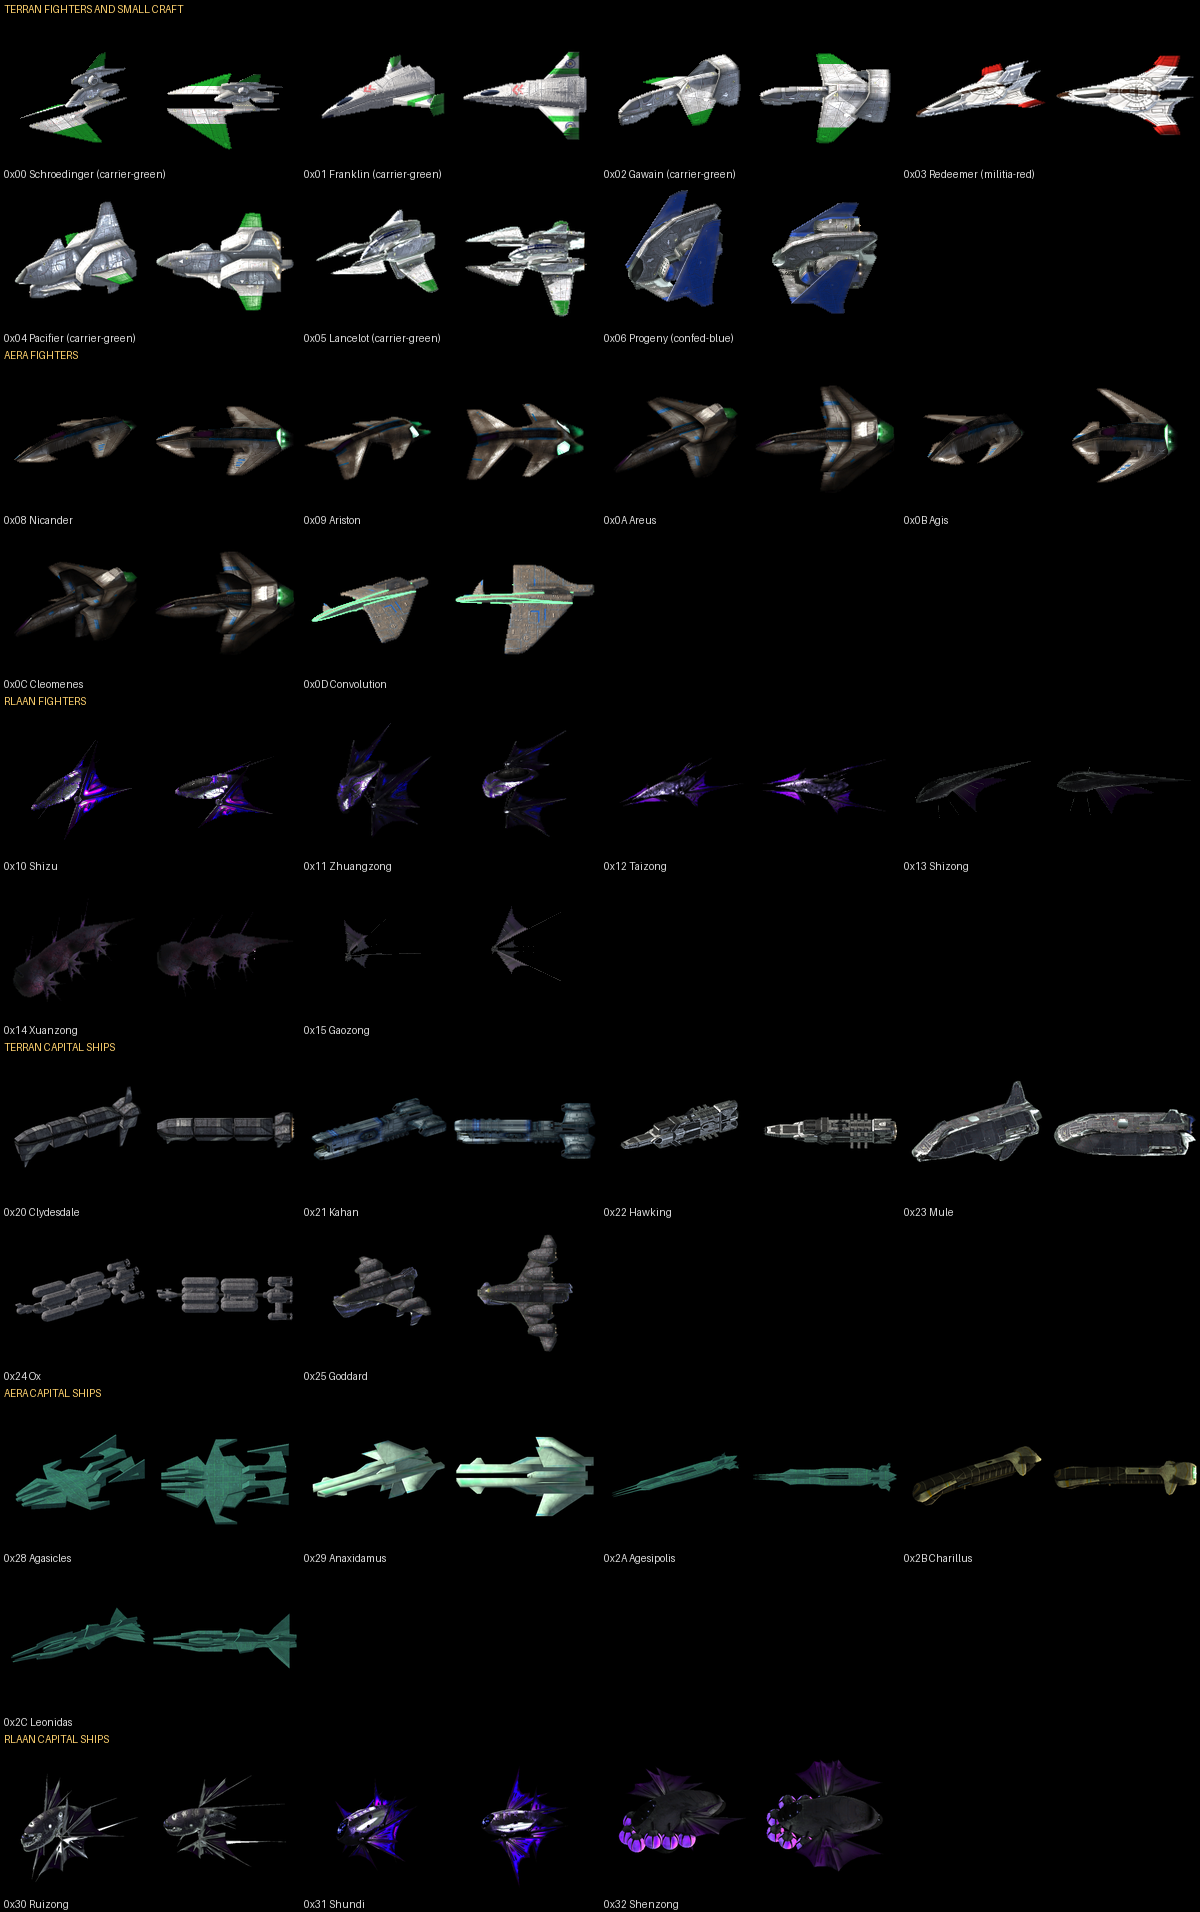
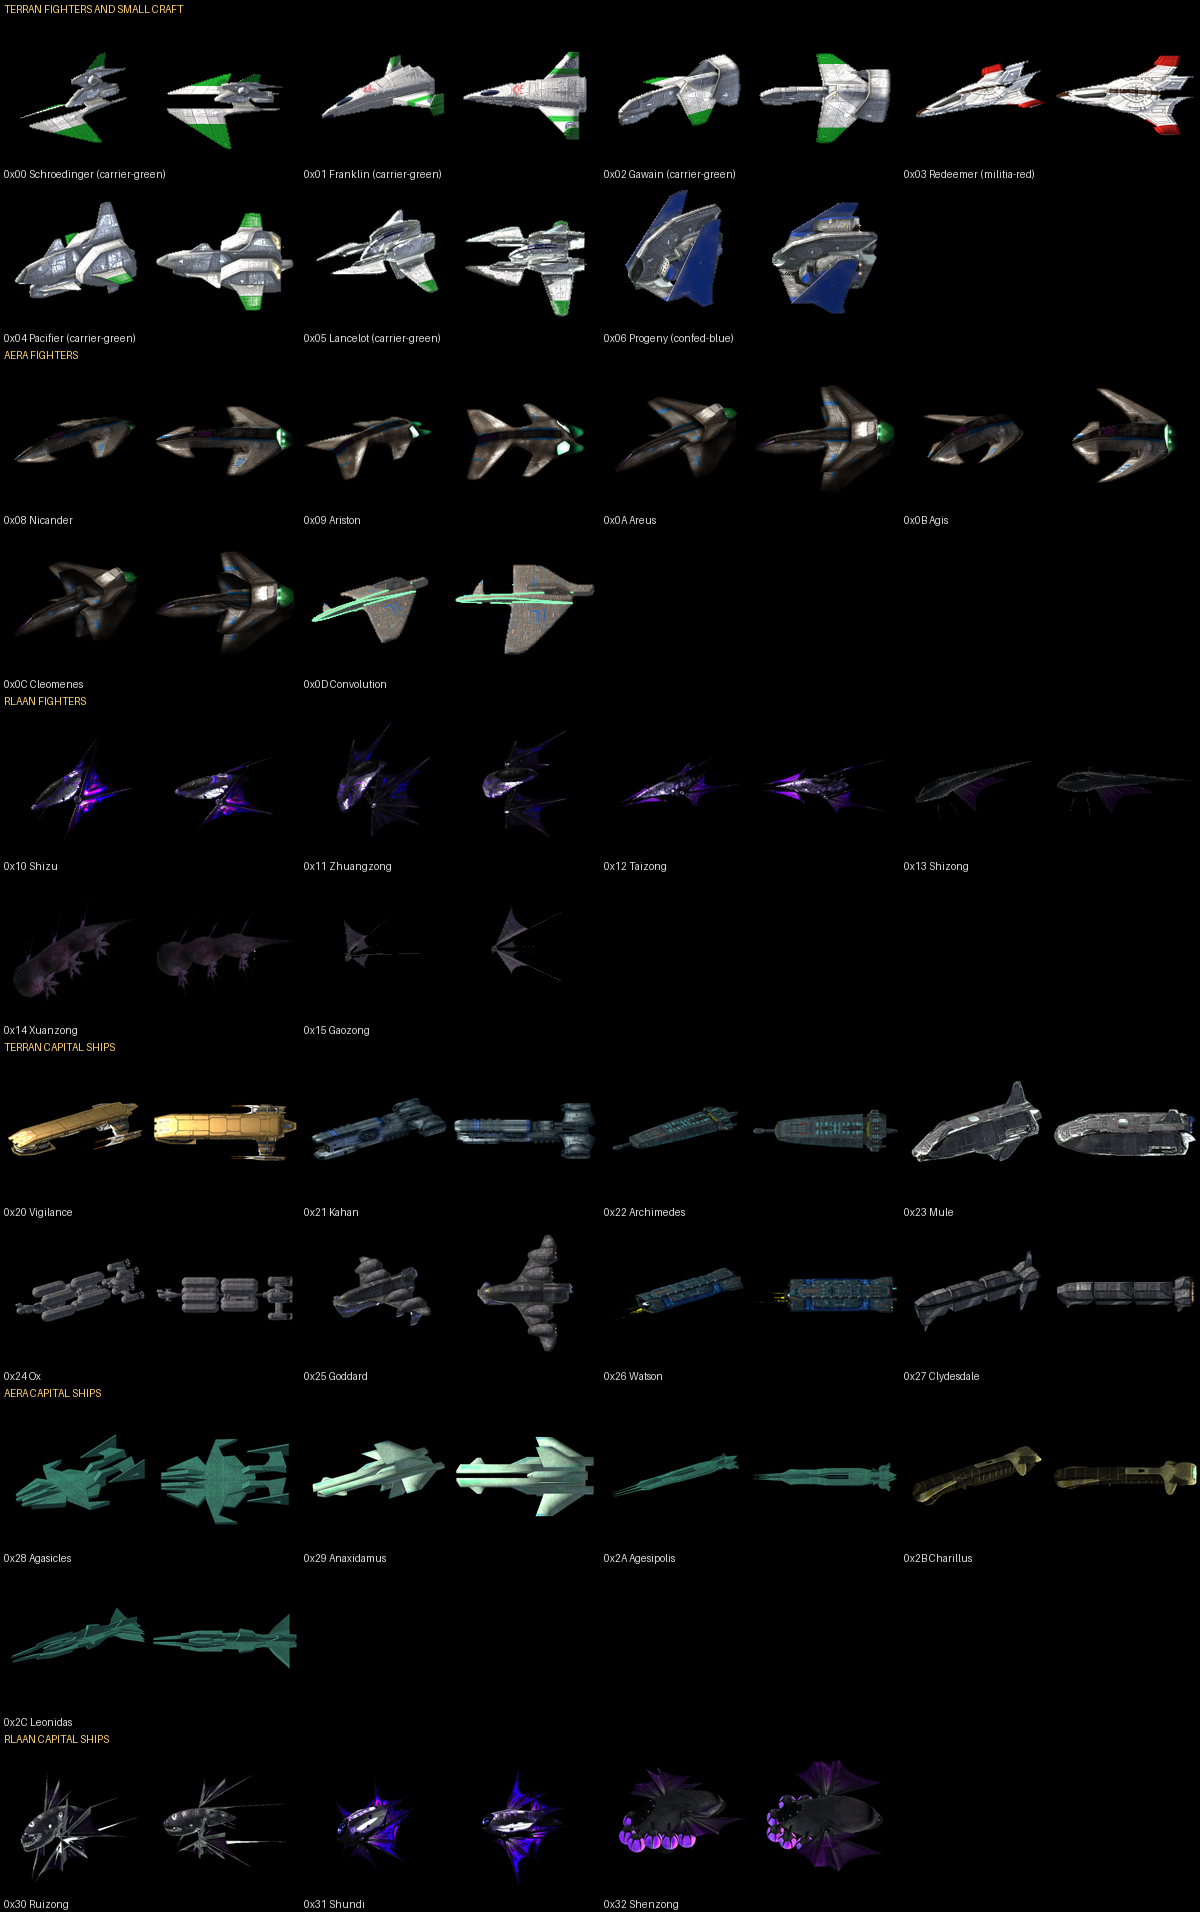
retrovega: the TCS Vigilance is home; the Archimedes and the Watson join
The user preferred Vega Strike's Watson, Archimedes and Vigilance to the
Hawking (and Tesla), and asked whether the Vigilance could be a fighter
carrier.  Vega Strike's own data: the Watson is the only one typed CARRIER, but
as a mostly automated refuel-and-rearm tender with docking clamps; the
Vigilance is a Purist corvette (ESCORTCAP), mass-produced and sent to the
frontier "to thwart rampant piracy and Aeran incursions", and the one with an
internal docking bay; the Archimedes an aging long-range capital ship.  The
user's picks from the options: home is the TCS Vigilance (its bay refitted as
the wing's flight deck), the Archimedes replaces the Hawking (0x22), the
Kahan stays, the Watson joins as the tender and an escort target (0x26), the
Clydesdale stays as an allied capital (0x27).  Rendered with the rest of the
roster (gallery, VDU sheet, packed sprites); the welcome says TCS Vigilance.

Claude-Session: https://claude.ai/code/session_019Nres1uExFzYT7oEr38LtM

diff --git a/retrovega/src/game.c b/retrovega/src/game.c
@@ -765,7 +765,7 @@ int game_run(void)
     camp_new();
     next_mission();
     enter_room(RV_R_QUARTERS);
-    message("Wildcard, welcome aboard the TCS Clydesdale. Your bunk keeps your saves. "
+    message("Wildcard, welcome aboard the TCS Vigilance. Your bunk keeps your saves. "
             "The briefing room is through the hatch in the bar.");
     while (g_mode != MODE_QUIT) {
         g_now = ticks();

diff --git a/retrovega/README.md b/retrovega/README.md
@@ -52,8 +52,15 @@ section "More or Less Now"):
 - An Andolian task force sent to defend the Shmrn was surrounded when both neighbouring systems were overrun, and its fate is unknown.
 - The Rlaan will not help in earnest. They fear an Aera victory, but they are happy to see the Confederation bled white, and to expand while it is busy.
 
-The player flies from a Clydesdale-class carrier with the relief group
-pushing toward the Shmrn pocket.
+The player flies from the TCS Vigilance with the relief group pushing toward
+the Shmrn pocket.  In Vega Strike the Vigilance is a Purist-built corvette,
+mass-produced, slow, tough and cheap, of a class "trickling into the frontier
+territories to thwart rampant piracy and Aeran incursions"; it is also the one
+capital ship in Vega Strike's data with an internal docking bay, and on this
+one the bay has been refitted as the wing's flight deck.  The Archimedes, an
+aging battleship still formidable at long range, is the group's heavy hitter;
+the Watson, Vega Strike's mostly automated refuelling and rearming tender, its
+support (and the ship most often in need of an escort).
 
 The Rlaan are the third side throughout (`commAnimInfo` side 2, the "others"
 the AI already knows):
@@ -82,7 +89,7 @@ Possible series:
 |---|---|---|---|
 | fighters | Schroedinger (light, the starter), Gawain (interceptor), Redeemer (militia assault), Pacifier/Osprey (fighter-bomber with a rear gunner seat), Lancelot/Destiny (heavy, if the art budget allows); Progeny/Mongoose rare, mostly escorted | Nicander, Ariston, Areus, Convolution (the aces' asymmetric strike fighter, in the Aera's blue-silver sheen), plus two new hulls built from them (tools/hulls.py): Agis (swarm fighter, gull-winged), Cleomenes (heavy assault, cross-winged) | Shizu (scout), Zhuangzong (line), Taizong (assault bomber), Shizong (disabler), Xuanzong (jammer), Gaozong (probe) |
 | small craft | Franklin, the personnel transport: usually escorted, flown by the player on one or two missions where nothing else can get through; Goddard, the Andolian heavy bomber, escorted to its target from time to time | | |
-| capital ships | Clydesdale (home carrier), Kahan (Andolian destroyer), Hawking (cruiser), Mule and Ox (transports) | Agasicles (destroyer), Anaxidamus (cruiser), Agesipolis (carrier), Charillus (transport), Leonidas (dreadnought) | Ruizong (destroyer), Shundi (cruiser and launch ship), Shenzong (transport) |
+| capital ships | Vigilance (home: a Purist corvette refitted as a light carrier), Kahan (Andolian destroyer), Archimedes (aging battleship), Watson (tender), Clydesdale (Merchant-built workhorse), Mule and Ox (transports) | Agasicles (destroyer), Anaxidamus (cruiser), Agesipolis (carrier), Charillus (transport), Leonidas (dreadnought) | Ruizong (destroyer), Shundi (cruiser and launch ship), Shenzong (transport) |
 
 The factions differ in defence:
 
